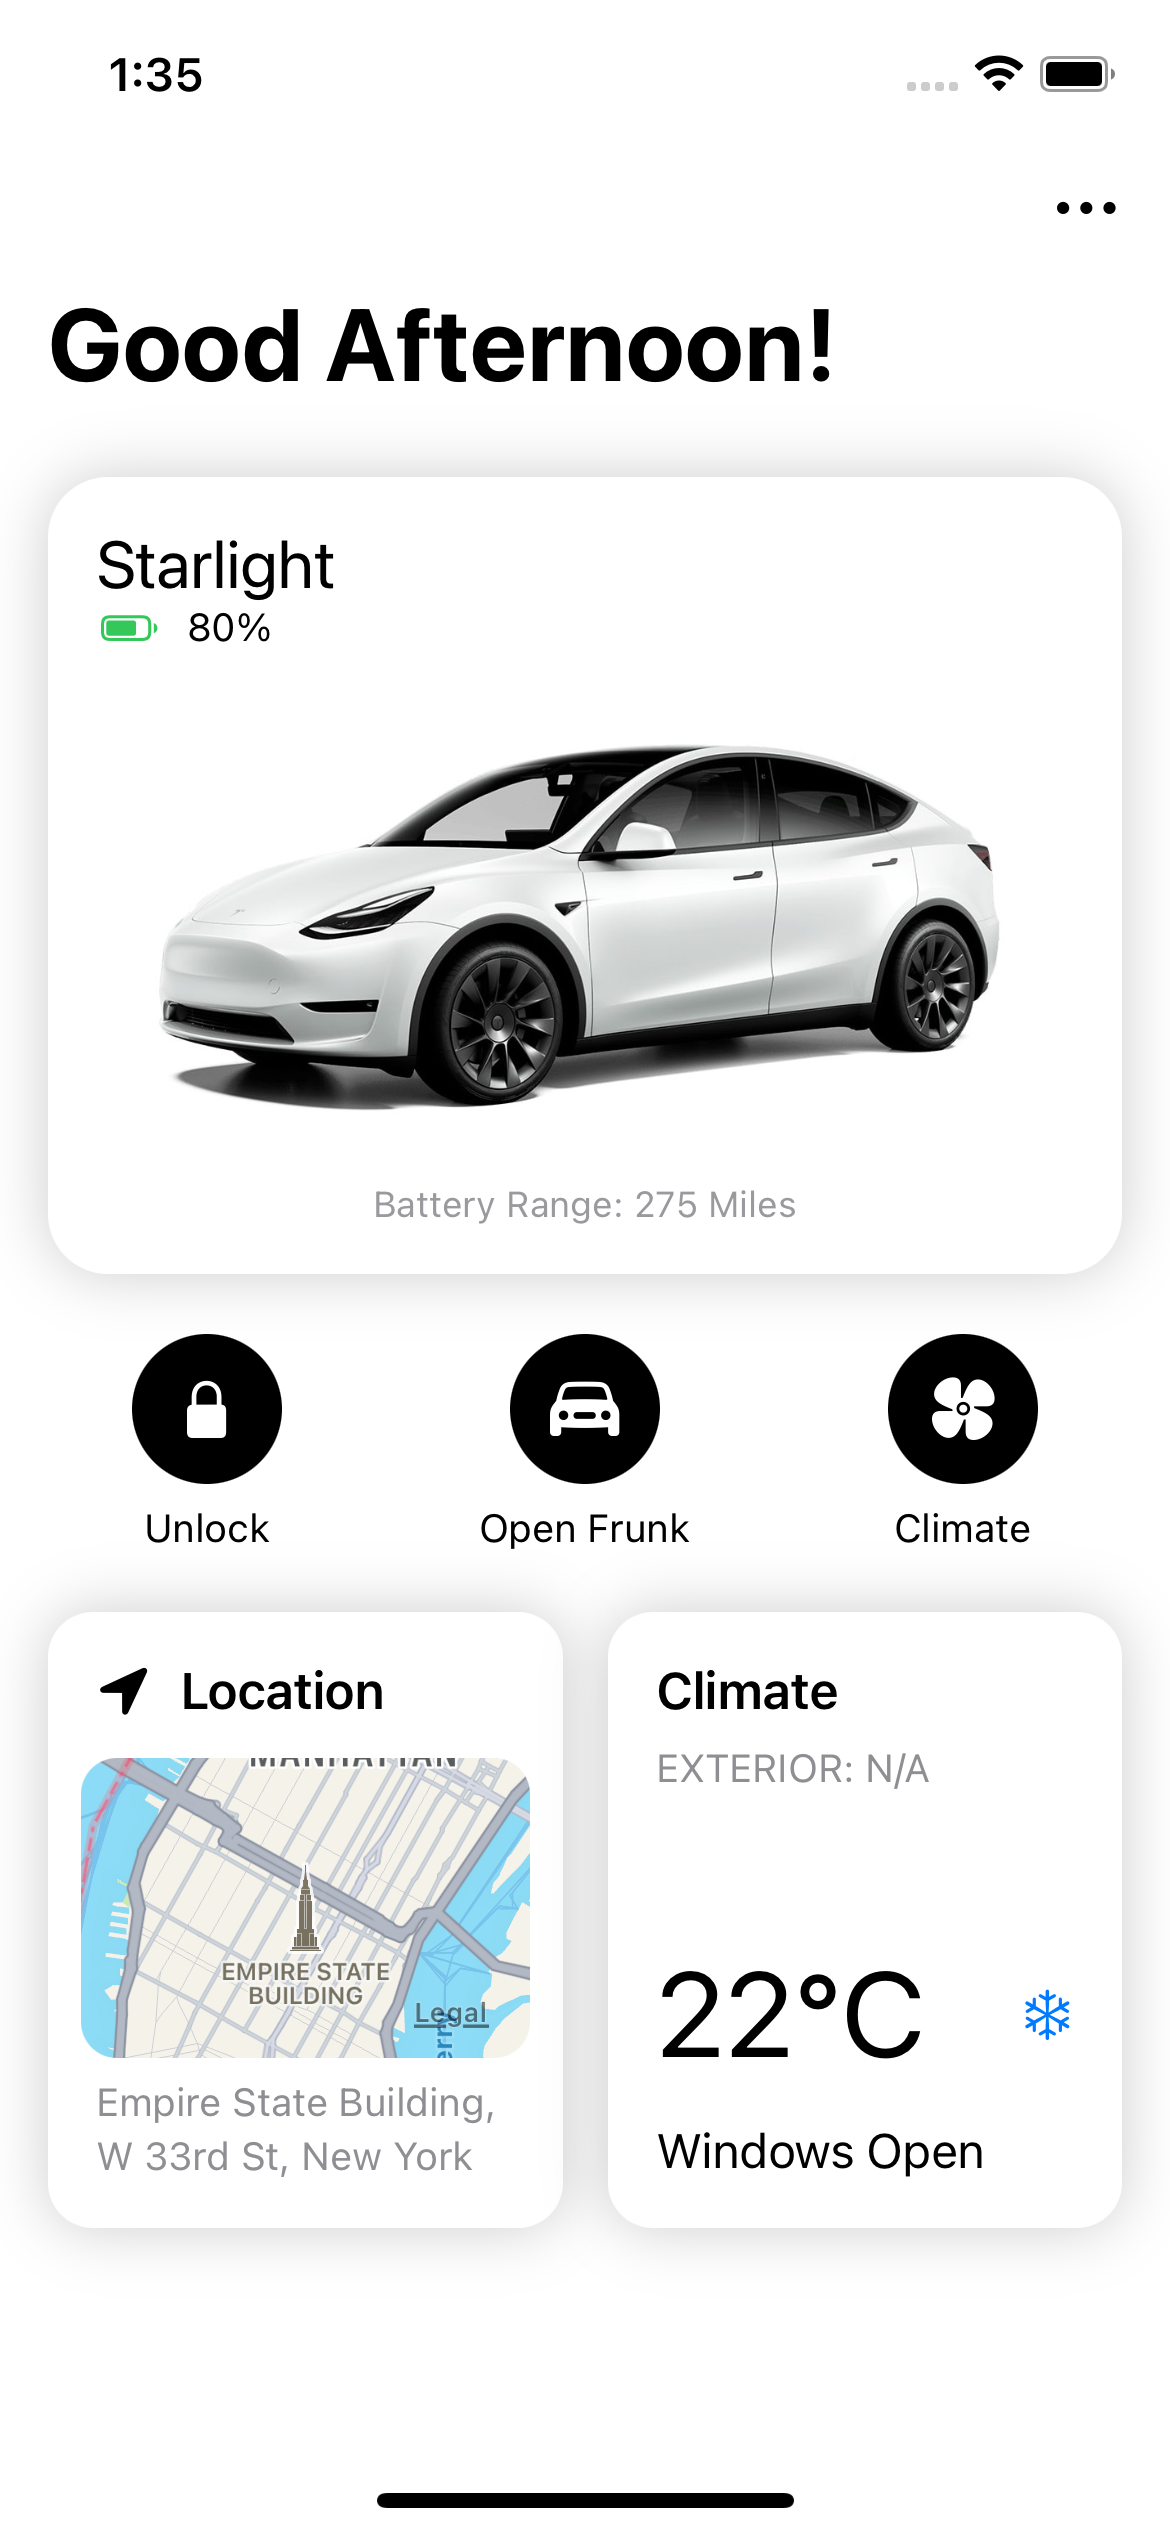
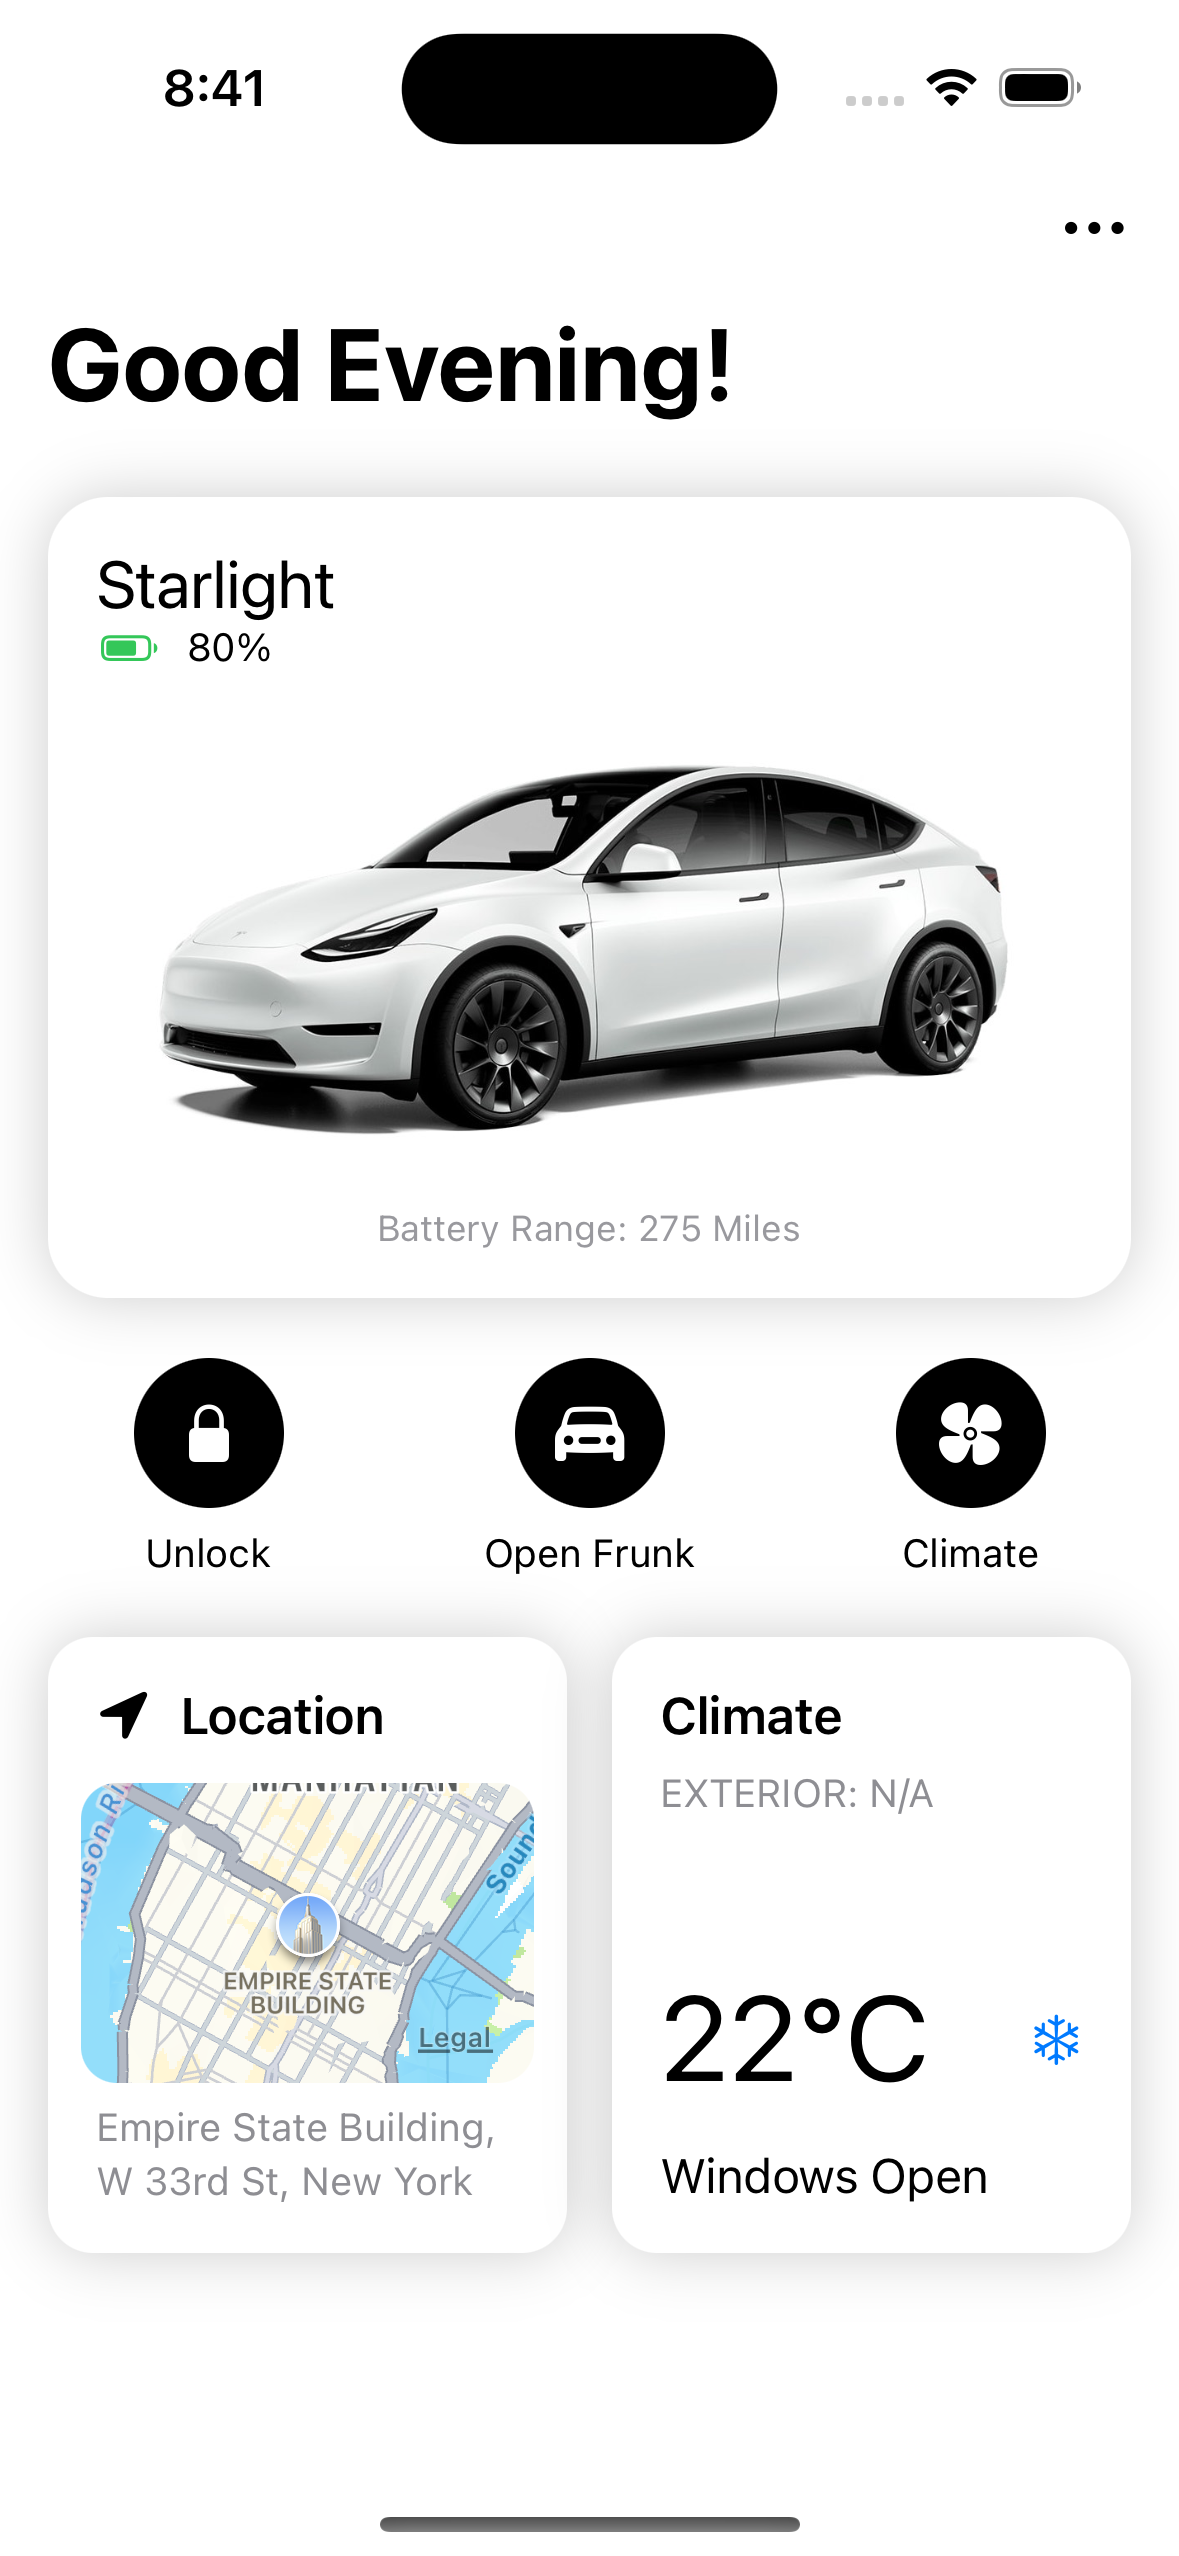
Updated assets

diff --git a/TeslaConnect WatchKit Extension/Home/HomeView.swift b/TeslaConnect WatchKit Extension/Home/HomeView.swift
@@ -22,7 +22,7 @@ struct HomeView: View {
                     Text("Starlight")
                         .multilineTextAlignment(.center)
                         .font(.system(size: 18, weight: .medium))
-                    Text("300 Miles")
+                    Text("275 Miles")
                         .multilineTextAlignment(.center)
                         .font(.system(size: 14))
                         .foregroundColor(.gray)
